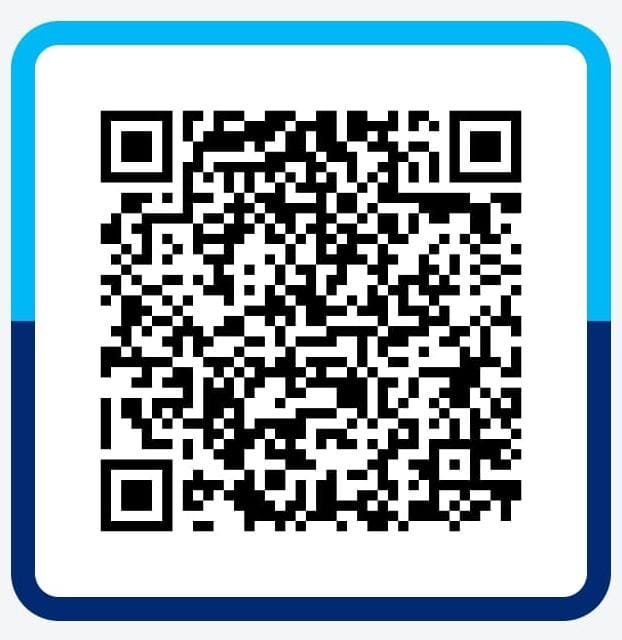
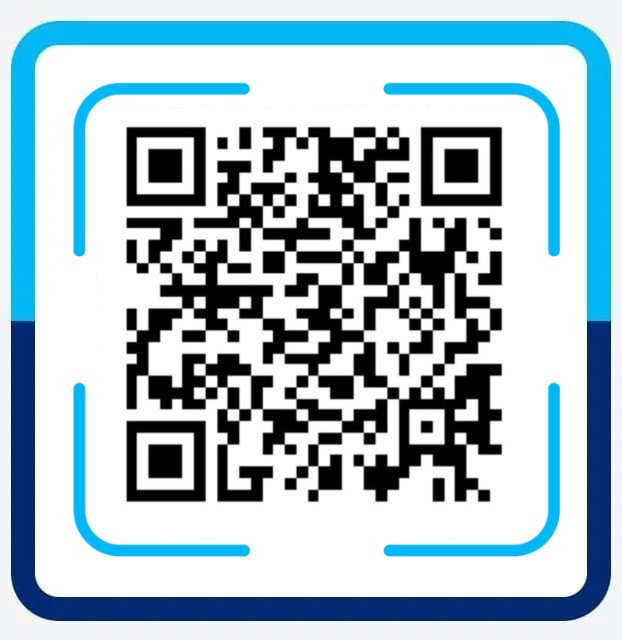
feat: replace payment QR code with official 0.1% Community QR

diff --git a/src/context/AppContext.tsx b/src/context/AppContext.tsx
@@ -572,7 +572,7 @@ export function AppProvider({ children }: { children: React.ReactNode }) {
       paidAt: "Just now",
       utrNumber: cleanUtr,
       screenshotUrl: screenshotUrl || "",
-      notes: `Paid ₹999 for ${track.title}. UTR: ${cleanUtr}. Direct UPI to Pinki Pandey.`
+      notes: `Paid ₹999 for ${track.title}. UTR: ${cleanUtr}. Direct UPI to 0.1% Community.`
     };
     setWhatsappQueue(prev => [newOnboarding, ...prev]);
 

diff --git a/src/lib/constants.ts b/src/lib/constants.ts
@@ -9,7 +9,7 @@ export const MASTER_WHATSAPP_INVITE_URL =
 
 // Official Platform & Payment Details
 export const OFFICIAL_ADMIN_EMAIL = "0.1community.circle@gmail.com";
-export const OFFICIAL_ADMIN_NAME = "Pinki Pandey";
+export const OFFICIAL_ADMIN_NAME = "0.1% Community";
 export const OFFICIAL_UPI_ID = "9839024329@ptyes";
 export const OFFICIAL_PHONE = "+91 98390 24329";
 export const LIFETIME_PRO_PRICE = 999;

diff --git a/src/components/PaymentModal.tsx b/src/components/PaymentModal.tsx
@@ -43,7 +43,7 @@ export default function PaymentModal() {
 
   // Business UPI Settings - Extracted directly from client's official UPI QR code
   const BUSINESS_UPI_ID = "9839024329@ptyes";
-  const BUSINESS_NAME = "Pinki Pandey";
+  const BUSINESS_NAME = "0.1% Community";
   const AMOUNT = 999;
 
   // Selected Track State (1 Student = 1 Specific Course)
